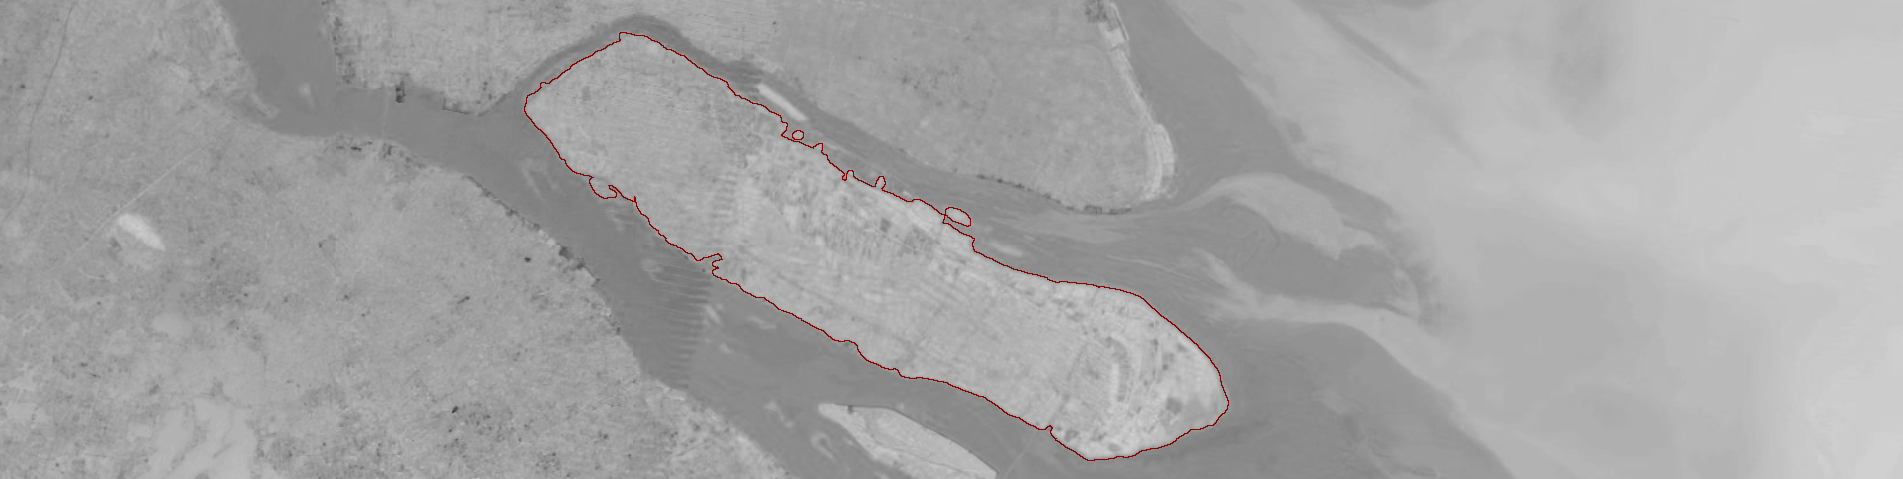
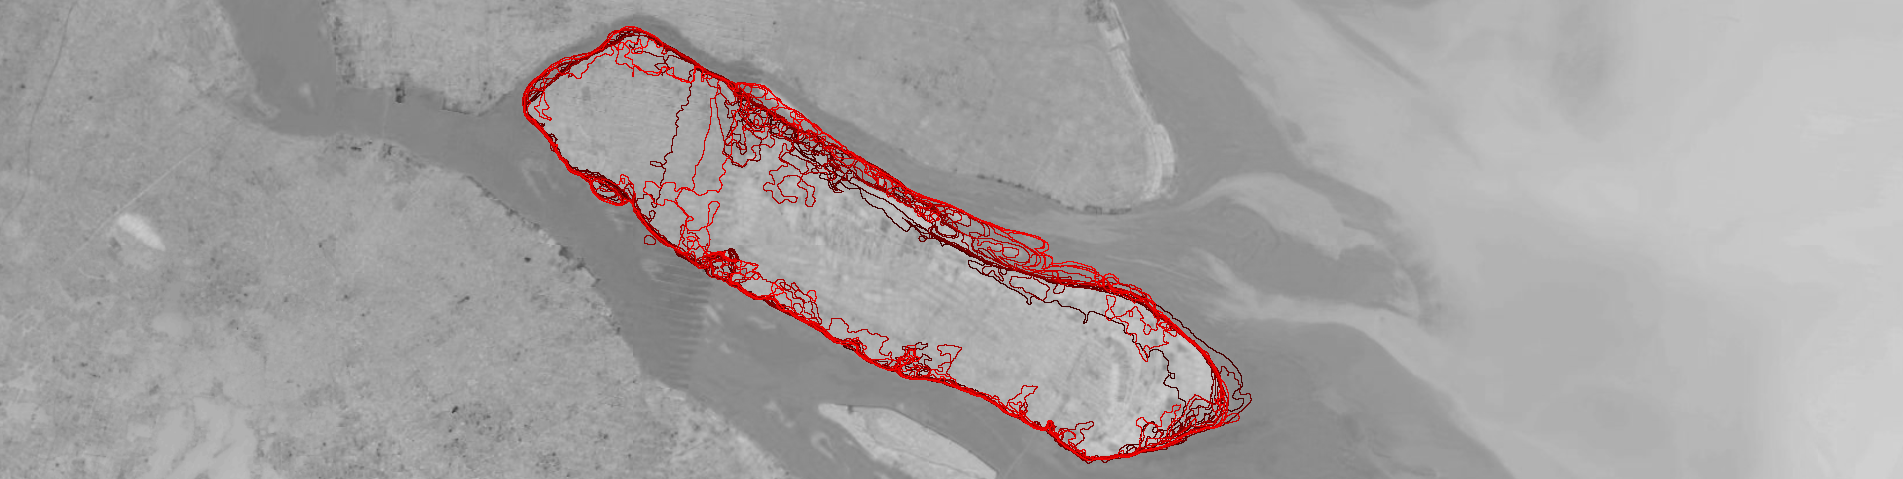
reverted some temporary changes to the original

Changed region(s): [[0.279, 0.0585, 0.6511, 0.9645], [0.248, 0.2046, 0.279, 0.2338]]

diff --git a/Threshold.py b/Threshold.py
@@ -27,7 +27,7 @@ def getGray(image):
 
     # grayImage.show()
     # redChannelImage.show()
-    greenChannelImage.show()
+    # greenChannelImage.show()
     # blueChannelImage.show()
     return greenChannelImage
 
@@ -44,7 +44,7 @@ def getEdge(image):
 
     #Gaussian Filter
     grayGausImage = grayImage.filter(ImageFilter.GaussianBlur)
-    grayGausImage.show()
+    # grayGausImage.show()
 
     pix = np.array(grayGausImage)
     red = pix[:,:,0].astype(float)
@@ -67,33 +67,33 @@ def getEdge(image):
                         binaryImage[i,j] = 0
 
     binaryImage = Image.fromarray(binaryImage).convert("L")
-    binaryImage.show()
+    # binaryImage.show()
 
     edgeImage = binaryImage.filter(ImageFilter.Kernel((3, 3), (-1, -2, -1, -2, 12,
                                             -2, -1, -2, -1), 1, 0))
     
-    edgeImage.show()
+    # edgeImage.show()
     return edgeImage
 
 
 # prettyImage = Image.open(r"Coastline Segmentation\greyIsland.png")
 # image = Image.open(r"Coastline Segmentation\map-view (2).png")
 # grayClean = getGray(Image.open(r"Coastline Segmentation\Timelapse\red2021.png"))
-grayClean = getGray(Image.open(r"Coastline Segmentation\Timelapse\red2009.png"))
+grayClean = getGray(Image.open(r"Timelapse\red2009.png"))
 prettyImage = grayClean
 st = time.time()
 lt = st
 times = []
 
-# for year in range(2001, 2022):
-for year in range(2009, 2010):
-    filename = "Coastline Segmentation\Timelapse\\red"
+for year in range(2001, 2022):
+# for year in range(2009, 2010):
+    filename = "Timelapse\\red"
     filename += str(year)
     filename += ".png"
     print(filename)
     image = Image.open(filename)
     grayClean = getGray(Image.open(filename))
-    grayClean.save("Coastline Segmentation\BinaryTimelapse\\"+str(year)+".png")
+    # grayClean.save("BinaryTimelapse\\"+str(year)+".png")
 
 
     r,g,b,o = image.split()
@@ -139,7 +139,7 @@ for year in range(2009, 2010):
                             if not (x, y) in worklist:
                                 worklist.append((x, y))
         # prettyImage.show()
-        grayClean.save("Coastline Segmentation\TimeTest\\"+str(year)+".png")
+        grayClean.save("TimeTest\\"+str(year)+".png")
     else:
         print("Error: Edge not found in selected area")
         # edgeImage.show()
@@ -149,9 +149,9 @@ for year in range(2009, 2010):
     times.append(et-lt)
     lt = et
 prettyImage.show()
-prettyImage.save("Coastline Segmentation\TimeTest\\timelapseLetsgo.png")
+prettyImage.save("TimeTest\\timelapseLetsgo.png")
 
-# print("Average time: ", sum(times)/len(times))
+print("Average time: ", sum(times)/len(times))
 
 
 
